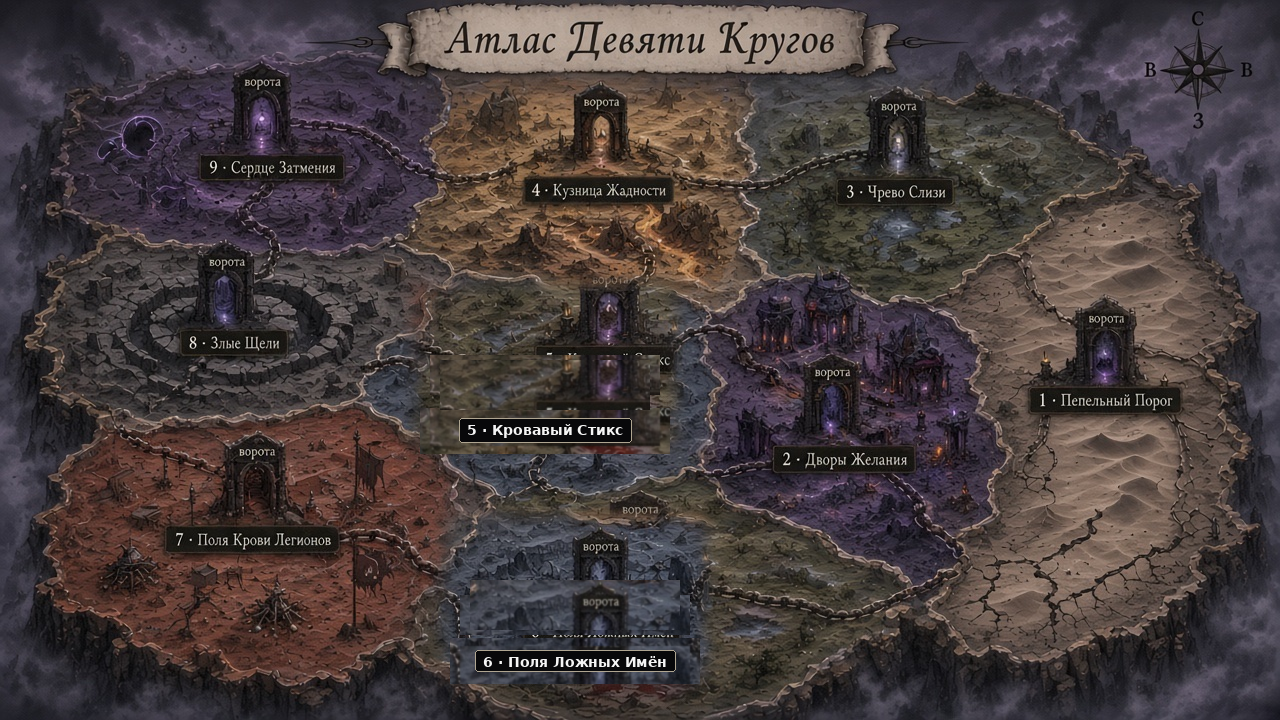
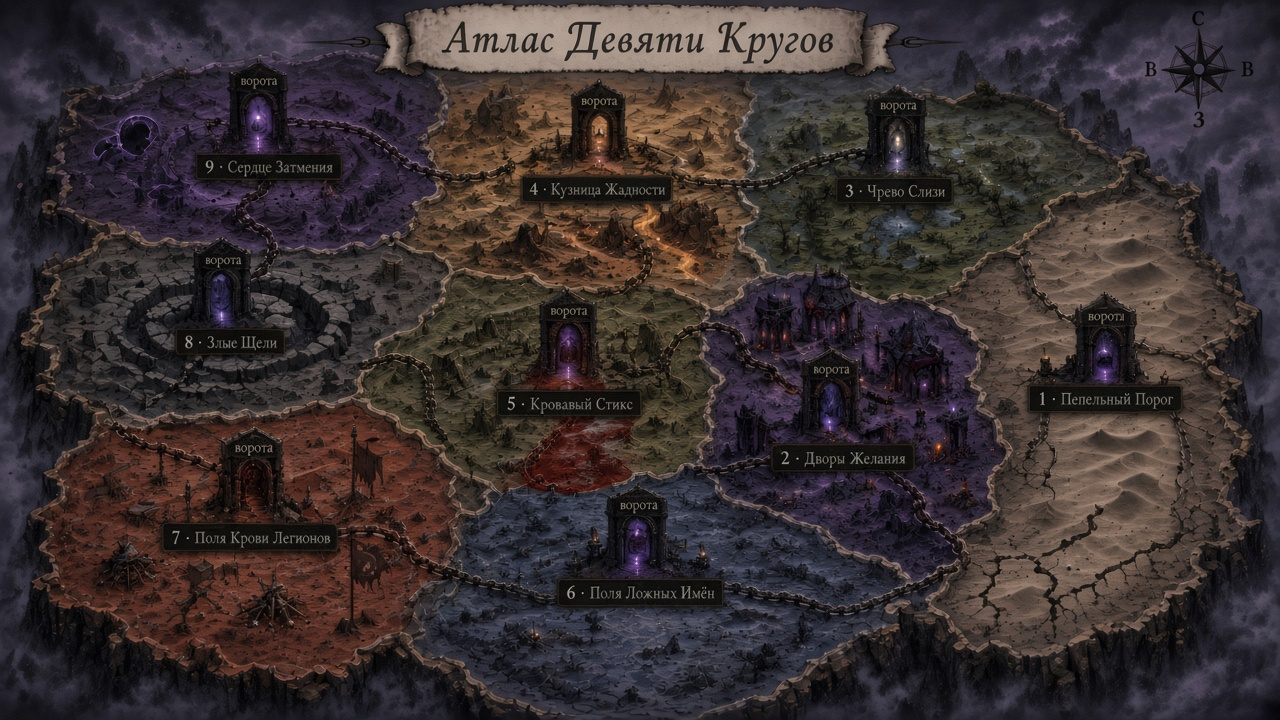
Атлас v24: полная пересборка вместо патча v22
Новая картинка в стиле Эха: 5 Стикс в центре, 6 Ложные Имена снизу.
Без швов и дублей от Pillow-свапа.

diff --git a/assets/maps/README.md b/assets/maps/README.md
@@ -10,4 +10,4 @@ title: Карты
 - [Карта Ледяного Союза](ledyanoy-soyuz-map.jpg) — [`world/locations/ledyanoy-soyuz-map.md`](../../world/locations/ledyanoy-soyuz-map.md) **(LOCKED)**
 - [Серый Причал (план мёртвых)](seryy-prichal/seryy-prichal-map.png) — playbook [`campaign/prep/locations/seryy-prichal/`](../../campaign/prep/locations/seryy-prichal/)
 - [Маяк душ (план демонов)](mayak-dush/mayak-dush-map.png) — **LOCKED v4** · [`campaign/prep/locations/mayak-dush/`](../../campaign/prep/locations/mayak-dush/)
-- [Атлас Девяти Кругов](demon-plane/demon-plane-atlas.png) — **draft v22** · [`campaign/prep/locations/demon-plane-map.md`](../../campaign/prep/locations/demon-plane-map.md)
+- [Атлас Девяти Кругов](demon-plane/demon-plane-atlas.png) — **draft v24** · [`campaign/prep/locations/demon-plane-map.md`](../../campaign/prep/locations/demon-plane-map.md)

diff --git a/campaign/prep/locations/demon-plane-map-brief.md b/campaign/prep/locations/demon-plane-map-brief.md
@@ -1,7 +1,7 @@
 ---
 title: "План демонов — бриф обзорной карты"
 status: draft
-version: v6
+version: v7
 date: 2026-09-23
 ---
 
@@ -9,13 +9,10 @@ date: 2026-09-23
 
 ## Статус
 
-**draft v22** = живопись v9 + свап **5↔6** (Стикс в центре под Кузницей, Ложные Имена снизу к Легионам).
-
-## Цель (если ещё правим)
-
-Ворота на границах — отдельно, без сетки.
+**draft v24** — полная пересборка (v22 patch discarded).  
+Стиль Эха · **5 в центре (Стикс)** · **6 снизу (Ложные Имена)**.
 
 ## Выход
 
-- `assets/maps/demon-plane/demon-plane-atlas-v22.png` (= current)  
+- `assets/maps/demon-plane/demon-plane-atlas-v24.png` (= current)  
 - `campaign/prep/locations/demon-plane-map.png`

diff --git a/campaign/prep/orchestrator/demon-plane-map-plan.md b/campaign/prep/orchestrator/demon-plane-map-plan.md
@@ -17,7 +17,7 @@ parent: plane-maps-plan.md
 | Имена 9 кругов | **LOCKED · B** [`canon-lock-2026-09-23-demon-plane-circle-names-b.md`](../../plot/canon-lock-2026-09-23-demon-plane-circle-names-b.md) |
 | Gazetteer | [`../locations/demon-plane-gazetteer.md`](../locations/demon-plane-gazetteer.md) |
 | Бриф компоновки | done — кольца [`../locations/demon-plane-map-brief.md`](../locations/demon-plane-map-brief.md) |
-| Отрисовка | **draft v22** — стиль v9 · 5↔6 свап · ждём ok |
+| Отрисовка | **draft v24** — новая сборка · 5 центр / 6 низ · ждём ok |
 
 ## Whitelist player
 
@@ -25,4 +25,4 @@ parent: plane-maps-plan.md
 
 ## Дальше
 
-Ждём ok на v22 → LOCK.
+Ждём ok на v24 → LOCK.

diff --git a/campaign/prep/locations/demon-plane-map.md b/campaign/prep/locations/demon-plane-map.md
@@ -1,7 +1,7 @@
 ---
 title: "План демонов — обзорная карта"
 status: draft
-version: v22
+version: v24
 audience: players
 locks:
   - ../../plot/canon-lock-2026-09-23-demon-plane-geometry.md
@@ -12,7 +12,8 @@ locks:
 
 ![Атлас](demon-plane-map.png)
 
-**Статус:** draft **v22** — стиль v9 · **5 и 6 местами** (Стикс в центре, Ложные Имена снизу). Ждём ok.
+**Статус:** draft **v24** — новая сборка (не патч v22).  
+5 · Кровавый Стикс в центре · 6 · Поля Ложных Имён снизу. Ждём ok.
 
 ## Цепь
 
